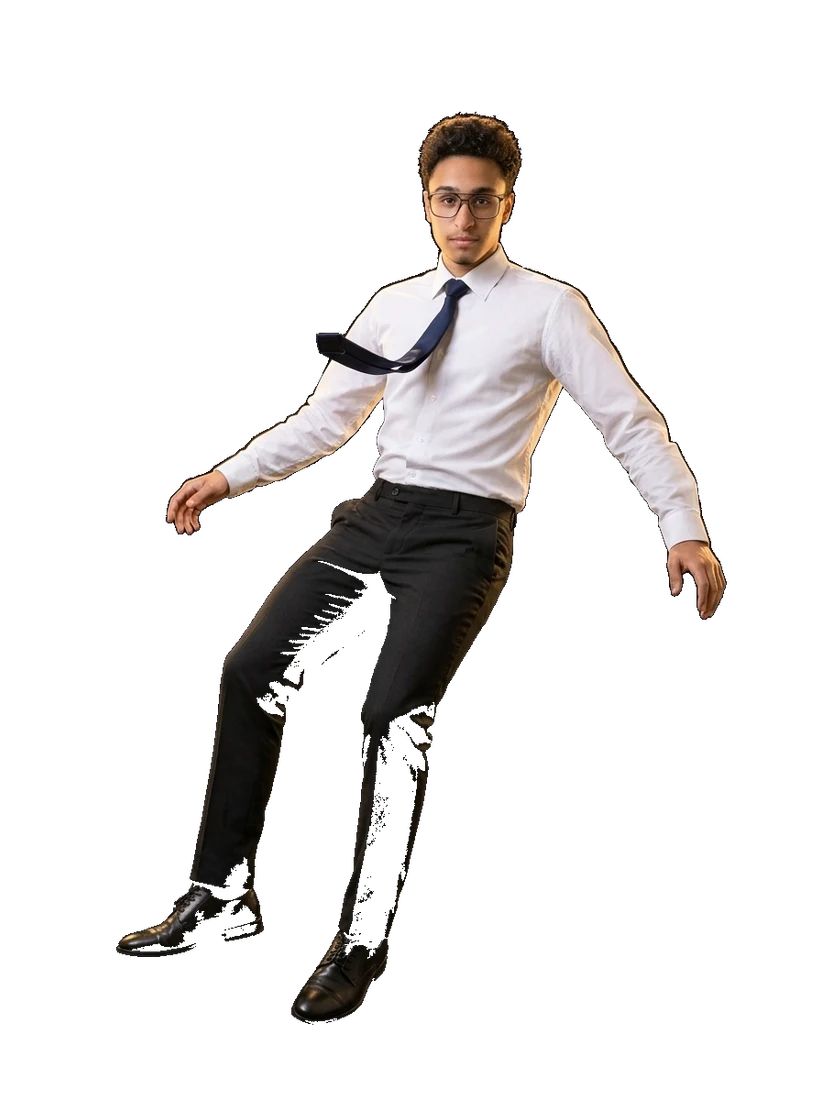
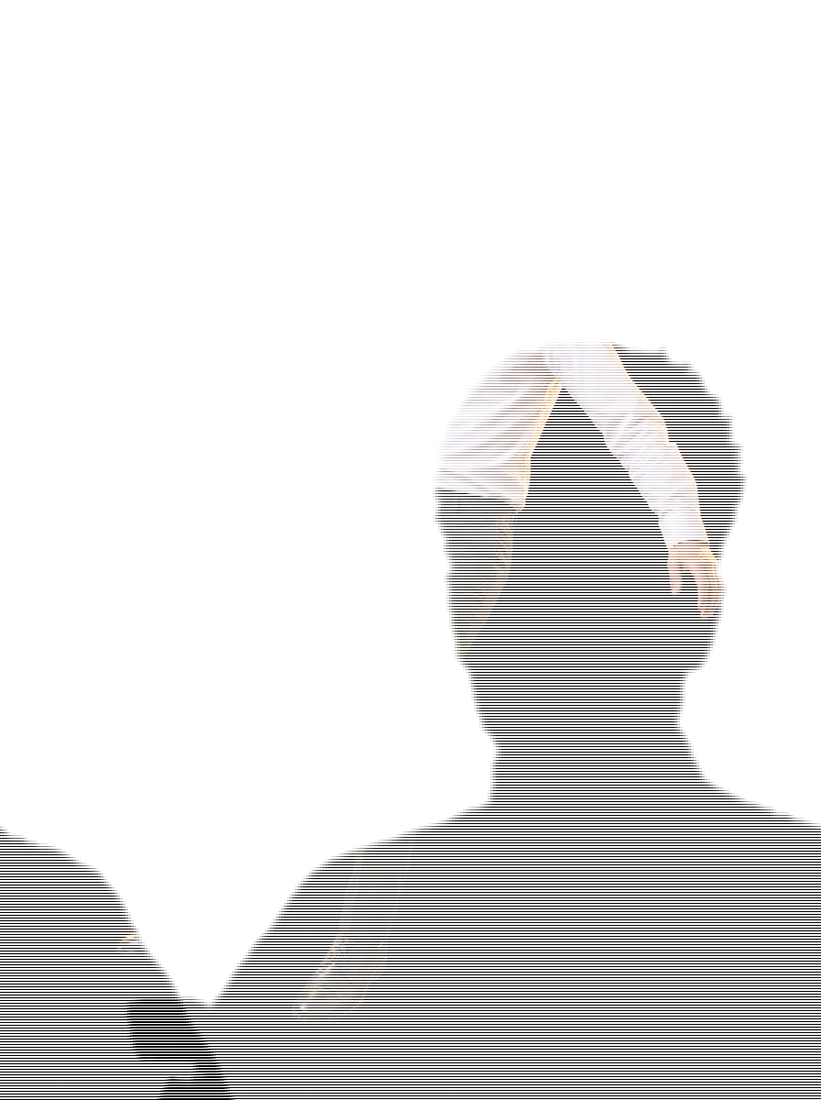
polish: feather-clean fullbody character edges and upgrade volumetric Freefall/Portal cinema

diff --git a/js/main.js b/js/main.js
@@ -89,11 +89,12 @@
     constructor(canvas, seq, ax, ay, maxDpr) {
       this.c = canvas; this.ctx = canvas.getContext('2d', { alpha: false });
       this.seq = seq; this.ax = ax; this.ay = ay; this.maxDpr = maxDpr; this.key = '';
-      this.streaks = Array.from({ length: 42 }, (_, i) => ({
-        x: ((i * 73) % 100) / 100,
-        y: ((i * 37) % 100) / 100,
-        len: 40 + (i % 5) * 35,
-        sp: 0.6 + (i % 4) * 0.4,
+      this.motes = Array.from({ length: 48 }, (_, i) => ({
+        x: ((i * 73 + 19) % 100) / 100,
+        y: ((i * 37 + 11) % 100) / 100,
+        r: 1.4 + (i % 5) * 1.1,
+        sp: 0.55 + (i % 4) * 0.35,
+        alpha: 0.22 + (i % 3) * 0.18,
       }));
     }
     resize() {
@@ -124,35 +125,42 @@
         return a;
       }
 
-      // Procedural high-contrast cinema fallback
+      // Cinema-grade procedural fallback
       const p = clamp(f / Math.max(1, seq.count - 1));
       ctx.globalAlpha = 1;
-      ctx.fillStyle = '#040406';
+      ctx.globalCompositeOperation = 'source-over';
+      ctx.fillStyle = '#030305';
       ctx.fillRect(0, 0, W, H);
 
       if (seq.kind === 'portal') {
-        // Burning doorway in dark clouds
-        const open = 0.25 + p * 0.75;
-        const glow = ctx.createRadialGradient(W * 0.5, H * 0.46, 8, W * 0.5, H * 0.46, Math.max(W, H) * (0.28 + open * 0.45));
-        glow.addColorStop(0, `rgba(255, 240, 200, ${0.85 * open})`);
-        glow.addColorStop(0.28, `rgba(232, 184, 92, ${0.55 * open})`);
-        glow.addColorStop(0.58, `rgba(232, 78, 27, ${0.28 * open})`);
-        glow.addColorStop(1, 'rgba(4, 4, 6, 0)');
-        ctx.fillStyle = glow;
+        // Volumetric glowing threshold doorway in soft mist
+        const open = sstep(0, 1, p);
+        const cx = W * 0.5 + S.smx * W * 0.02;
+        const cy = H * 0.45 + S.smy * H * 0.02;
+
+        const bloom = ctx.createRadialGradient(cx, cy, 4, cx, cy, Math.max(W, H) * (0.34 + open * 0.44));
+        bloom.addColorStop(0, `rgba(255, 246, 220, ${0.42 + open * 0.52})`);
+        bloom.addColorStop(0.24, `rgba(232, 184, 92, ${0.26 + open * 0.34})`);
+        bloom.addColorStop(0.54, `rgba(232, 78, 27, ${0.12 + open * 0.18})`);
+        bloom.addColorStop(1, 'rgba(3, 3, 5, 0)');
+        ctx.fillStyle = bloom;
         ctx.fillRect(0, 0, W, H);
 
-        const dw = W * (0.14 + open * 0.14);
-        const dh = H * (0.38 + open * 0.24);
-        const dx = (W - dw) / 2, dy = H * 0.46 - dh * 0.5;
+        // Soft glowing doorway threshold (no harsh lines)
+        const dw = W * (0.10 + open * 0.14);
+        const dh = H * (0.32 + open * 0.28);
+        const dx = cx - dw / 2, dy = cy - dh * 0.48;
+        const doorGrad = ctx.createLinearGradient(0, dy, 0, dy + dh);
+        doorGrad.addColorStop(0, `rgba(255, 248, 228, ${0.45 + open * 0.5})`);
+        doorGrad.addColorStop(0.65, `rgba(232, 184, 92, ${0.28 + open * 0.4})`);
+        doorGrad.addColorStop(1, 'rgba(232, 78, 27, 0)');
         ctx.save();
-        ctx.strokeStyle = `rgba(232, 184, 92, ${0.4 + open * 0.5})`;
-        ctx.lineWidth = Math.max(2, W * 0.003);
-        ctx.strokeRect(dx, dy, dw, dh);
-        const inner = ctx.createLinearGradient(0, dy, 0, dy + dh);
-        inner.addColorStop(0, `rgba(255, 245, 215, ${0.65 * open})`);
-        inner.addColorStop(1, `rgba(232, 78, 27, ${0.2 * open})`);
-        ctx.fillStyle = inner;
-        ctx.fillRect(dx, dy, dw, dh);
+        ctx.shadowColor = 'rgba(232, 184, 92, 0.75)';
+        ctx.shadowBlur = 32;
+        ctx.fillStyle = doorGrad;
+        ctx.beginPath();
+        ctx.roundRect ? ctx.roundRect(dx, dy, dw, dh, [dw * 0.48, dw * 0.48, 0, 0]) : ctx.rect(dx, dy, dw, dh);
+        ctx.fill();
         ctx.restore();
         return null;
       }
@@ -163,88 +171,105 @@
       const fallP = clamp(p / 0.46);
       const riseP = clamp((p - 0.72) / 0.28);
 
-      // Vertical shaft of light from above
-      const cx = W * 0.5 + S.smx * W * 0.04;
+      const cx = W * 0.5 + S.smx * W * 0.035;
+      const cy = H * (inRise ? lerp(0.58, 0.48, easeOut(riseP)) : inCrowd ? 0.54 : lerp(0.36, 0.55, easeInOut(fallP))) + S.smy * H * 0.025;
+
+      // 1. Soft volumetric god-ray columns
       if (!inCrowd) {
-        const shaft = ctx.createLinearGradient(cx - W * 0.28, 0, cx + W * 0.28, 0);
-        shaft.addColorStop(0, 'rgba(0, 0, 0, 0)');
-        shaft.addColorStop(0.5, inRise ? 'rgba(232, 184, 92, 0.22)' : 'rgba(255, 224, 155, 0.24)');
-        shaft.addColorStop(1, 'rgba(0, 0, 0, 0)');
-        ctx.fillStyle = shaft;
+        ctx.save();
+        ctx.globalCompositeOperation = 'screen';
+        const rayW = W * (inRise ? 0.44 : 0.36);
+        const ray = ctx.createLinearGradient(cx - rayW, 0, cx + rayW, 0);
+        ray.addColorStop(0, 'rgba(0,0,0,0)');
+        ray.addColorStop(0.35, 'rgba(232, 184, 92, 0.09)');
+        ray.addColorStop(0.5, 'rgba(255, 232, 178, 0.22)');
+        ray.addColorStop(0.65, 'rgba(232, 184, 92, 0.09)');
+        ray.addColorStop(1, 'rgba(0,0,0,0)');
+        ctx.fillStyle = ray;
         ctx.fillRect(0, 0, W, H);
+        ctx.restore();
       }
 
-      // Golden core glow (or crimson during crowd impact)
-      const cy = H * (inRise ? lerp(0.62, 0.48, riseP) : inCrowd ? 0.54 : lerp(0.38, 0.56, fallP)) + S.smy * H * 0.03;
-      const beam = ctx.createRadialGradient(cx, cy, W * 0.02, cx, cy, Math.max(W, H) * (inCrowd ? 0.52 : 0.62));
+      // 2. Smooth atmospheric core halo behind Saransh
+      const haloR = Math.max(W, H) * (inCrowd ? 0.48 : 0.56);
+      const beam = ctx.createRadialGradient(cx, cy, W * 0.015, cx, cy, haloR);
       if (inCrowd) {
-        beam.addColorStop(0, 'rgba(232, 78, 27, 0.8)');
-        beam.addColorStop(0.35, 'rgba(130, 32, 18, 0.35)');
-        beam.addColorStop(1, 'rgba(5, 5, 8, 0)');
+        beam.addColorStop(0, 'rgba(232, 78, 27, 0.65)');
+        beam.addColorStop(0.38, 'rgba(120, 26, 14, 0.26)');
+        beam.addColorStop(1, 'rgba(3, 3, 5, 0)');
       } else {
-        beam.addColorStop(0, 'rgba(255, 232, 178, 0.78)');
-        beam.addColorStop(0.34, 'rgba(232, 184, 92, 0.34)');
-        beam.addColorStop(0.66, 'rgba(232, 78, 27, 0.12)');
-        beam.addColorStop(1, 'rgba(4, 4, 6, 0)');
+        beam.addColorStop(0, 'rgba(255, 236, 190, 0.68)');
+        beam.addColorStop(0.28, 'rgba(232, 184, 92, 0.28)');
+        beam.addColorStop(0.62, 'rgba(232, 78, 27, 0.09)');
+        beam.addColorStop(1, 'rgba(3, 3, 5, 0)');
       }
       ctx.fillStyle = beam;
       ctx.fillRect(0, 0, W, H);
 
-      // High-speed upward wind streaks so downward freefall feels fast and physical
+      // 3. Soft floating golden dust motes & subtle motion blur trails (zero harsh lines)
       if (!inCrowd) {
         ctx.save();
-        ctx.lineCap = 'round';
-        for (const st of this.streaks) {
-          const sx = W * (0.14 + st.x * 0.72);
-          const flow = inRise ? (p * 5 + S.t * 0.12) * st.sp : (-p * 24 - S.t * 0.45) * st.sp;
-          const normY = (((st.y + flow) % 1.2) + 1.2) % 1.2 - 0.1;
-          const sy = normY * H;
-          const streakLen = st.len * (W / 600) * (inRise ? 0.7 : 1.6 + Math.min(Math.abs(S.vel) * 0.03, 1.5));
-          ctx.strokeStyle = inRise ? 'rgba(232, 184, 92, 0.28)' : 'rgba(255, 240, 200, 0.38)';
-          ctx.lineWidth = Math.max(1.2, W * 0.0022);
+        ctx.globalCompositeOperation = 'screen';
+        for (const m of this.motes) {
+          const mx = W * (0.12 + m.x * 0.76) + Math.sin(S.t * 0.8 + m.x * 10) * 6;
+          const flow = inRise ? (p * 4 + S.t * 0.08) * m.sp : (-p * 18 - S.t * 0.28) * m.sp;
+          const my = ((((m.y + flow) % 1.16) + 1.16) % 1.16 - 0.08) * H;
+          const stretch = inRise ? 1.2 : 1.8 + Math.min(Math.abs(S.vel) * 0.06, 4.5);
+
+          ctx.save();
+          ctx.translate(mx, my);
+          ctx.scale(1, stretch);
+          const mg = ctx.createRadialGradient(0, 0, 0, 0, 0, m.r * 2.2);
+          mg.addColorStop(0, `rgba(255, 240, 200, ${m.alpha})`);
+          mg.addColorStop(1, 'rgba(232, 184, 92, 0)');
+          ctx.fillStyle = mg;
           ctx.beginPath();
-          ctx.moveTo(sx, sy);
-          ctx.lineTo(sx, sy + streakLen);
-          ctx.stroke();
+          ctx.arc(0, 0, m.r * 2.2, 0, Math.PI * 2);
+          ctx.fill();
+          ctx.restore();
         }
         ctx.restore();
       }
 
-      // Shockwave ring in the crowd
+      // 4. Smooth glowing shockwave ring in the crowd
       if (p >= 0.47 && p <= 0.76) {
-        const rp = clamp((p - 0.47) / 0.26);
-        const rad = rp * Math.max(W, H) * 0.65;
+        const rp = easeOut(clamp((p - 0.47) / 0.26));
+        const rad = rp * Math.max(W, H) * 0.68;
+        ctx.save();
+        ctx.globalCompositeOperation = 'screen';
+        ctx.shadowColor = 'rgba(232, 78, 27, 0.9)';
+        ctx.shadowBlur = 24;
         ctx.beginPath();
         ctx.arc(cx, H * 0.54, rad, 0, Math.PI * 2);
-        ctx.strokeStyle = `rgba(232, 78, 27, ${(1 - rp) * 0.9})`;
-        ctx.lineWidth = Math.max(2, (1 - rp) * 16);
+        ctx.strokeStyle = `rgba(255, 160, 100, ${(1 - rp) * 0.82})`;
+        ctx.lineWidth = Math.max(2, (1 - rp) * 12);
         ctx.stroke();
+        ctx.restore();
       }
 
-      // Saransh's full-body character falling, banking & rising inside the light shaft
+      // 5. Saransh's full-body character cleanly lit inside the shaft
       if (heroPortrait) {
         ctx.save();
         const scale = inRise
-          ? lerp(0.58, 0.92, riseP)
+          ? lerp(0.62, 0.88, easeOut(riseP))
           : inCrowd
-            ? 0.58
-            : lerp(0.88, 0.62, fallP);
+            ? 0.60
+            : lerp(0.84, 0.64, easeInOut(fallP));
         const ph = H * scale;
         const pw = ph * (heroPortrait.naturalWidth / heroPortrait.naturalHeight);
-        const py = inRise
-          ? H * lerp(0.58, 0.49, riseP)
-          : inCrowd
-            ? H * 0.56
-            : H * lerp(0.42, 0.54, fallP) + Math.sin(S.t * 2.2) * H * 0.012;
         const rot = inRise
-          ? lerp(-0.1, 0, riseP)
+          ? lerp(-0.08, 0, easeOut(riseP))
           : inCrowd
-            ? 0.06
-            : Math.sin(fallP * Math.PI * 2.2) * 0.14 - 0.08 + S.smx * 0.08;
+            ? 0.04
+            : Math.sin(fallP * Math.PI * 1.5) * 0.09 - 0.04 + S.smx * 0.05;
 
-        ctx.translate(cx, py);
+        ctx.translate(cx, cy);
         ctx.rotate(rot);
-        ctx.globalAlpha = inCrowd ? 0.78 : 0.98;
+
+        // Soft rim backlight behind the character so edges melt smoothly into the light
+        ctx.shadowColor = inCrowd ? 'rgba(232, 78, 27, 0.65)' : 'rgba(232, 184, 92, 0.55)';
+        ctx.shadowBlur = 28;
+        ctx.globalAlpha = inCrowd ? 0.84 : 0.98;
         ctx.drawImage(heroPortrait, -pw / 2, -ph / 2, pw, ph);
         ctx.restore();
       }
@@ -255,23 +280,38 @@
 
   // Tiny blurred copy of the current frame stretched behind everything
   class Ambient {
-    constructor(canvas) { this.c = canvas; this.ctx = canvas.getContext('2d'); this.img = null; }
-    resize() { this.c.width = 72; this.c.height = Math.max(2, Math.round(72 * S.H / S.W)); this.img = null; }
-    draw(img) {
-      if (!img || img === this.img) return;
-      this.img = img;
+    constructor(canvas) { this.c = canvas; this.ctx = canvas.getContext('2d'); this.img = null; this.lastP = -1; }
+    resize() { this.c.width = 72; this.c.height = Math.max(2, Math.round(72 * S.H / S.W)); this.img = null; this.lastP = -1; }
+    draw(img, p = 0) {
       const { ctx, c } = this;
-      ctx.filter = 'blur(3px)';
-      ctx.fillStyle = '#000';
+      if (img) {
+        if (img === this.img) return;
+        this.img = img;
+        ctx.filter = 'blur(3px)';
+        ctx.fillStyle = '#000';
+        ctx.fillRect(0, 0, c.width, c.height);
+        const s = 1.6;
+        ctx.save();
+        ctx.translate(c.width / 2, c.height / 2);
+        ctx.scale(s, 1.1);
+        ctx.translate(-c.width / 2, -c.height / 2);
+        drawCover(ctx, img, c.width, c.height, 0.5, 0.5);
+        ctx.restore();
+        ctx.filter = 'none';
+        return;
+      }
+      // Procedural ambient glow matching the current story beat
+      if (Math.abs(p - this.lastP) < 0.01) return;
+      this.lastP = p;
+      const inCrowd = p >= 0.46 && p < 0.72;
+      ctx.fillStyle = '#030305';
       ctx.fillRect(0, 0, c.width, c.height);
-      const s = 1.6;
-      ctx.save();
-      ctx.translate(c.width / 2, c.height / 2);
-      ctx.scale(s, 1.1);
-      ctx.translate(-c.width / 2, -c.height / 2);
-      drawCover(ctx, img, c.width, c.height, 0.5, 0.5);
-      ctx.restore();
-      ctx.filter = 'none';
+      const g = ctx.createRadialGradient(c.width * 0.5, c.height * 0.48, 2, c.width * 0.5, c.height * 0.48, c.width * 0.65);
+      g.addColorStop(0, inCrowd ? 'rgba(232, 78, 27, 0.45)' : 'rgba(232, 184, 92, 0.38)');
+      g.addColorStop(0.55, inCrowd ? 'rgba(90, 18, 12, 0.16)' : 'rgba(130, 72, 24, 0.14)');
+      g.addColorStop(1, 'rgba(3, 3, 5, 0)');
+      ctx.fillStyle = g;
+      ctx.fillRect(0, 0, c.width, c.height);
     }
   }
 
@@ -552,7 +592,7 @@
 
     // film + ambient
     const img = filmFall.render(frameAt(p));
-    if (img) ambient.draw(img);
+    ambient.draw(img, p);
 
     // camera follows the pointer
     const camT = `rotateX(${f2(-S.smy * 7)}deg) rotateY(${f2(S.smx * 10)}deg)`;
